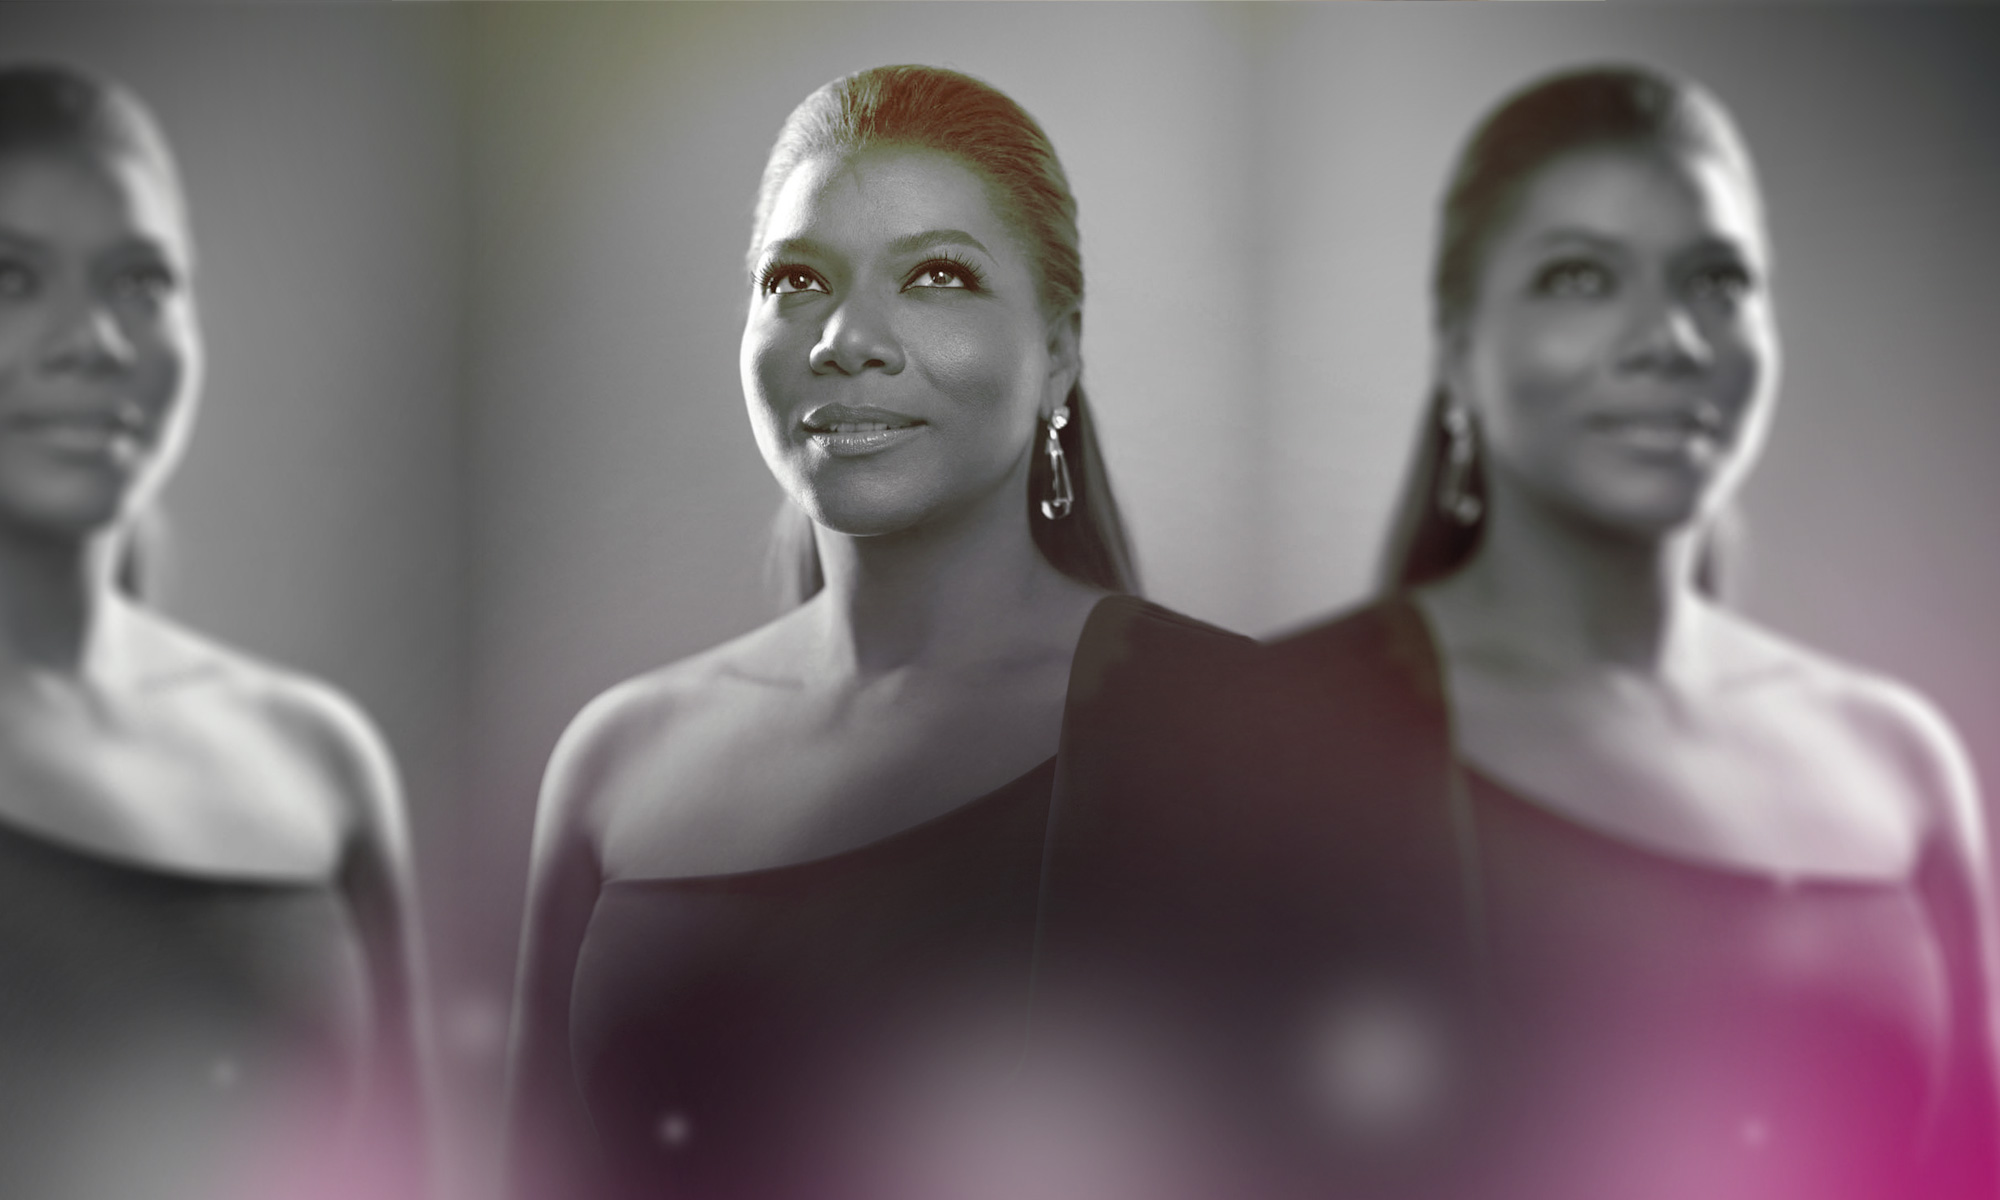
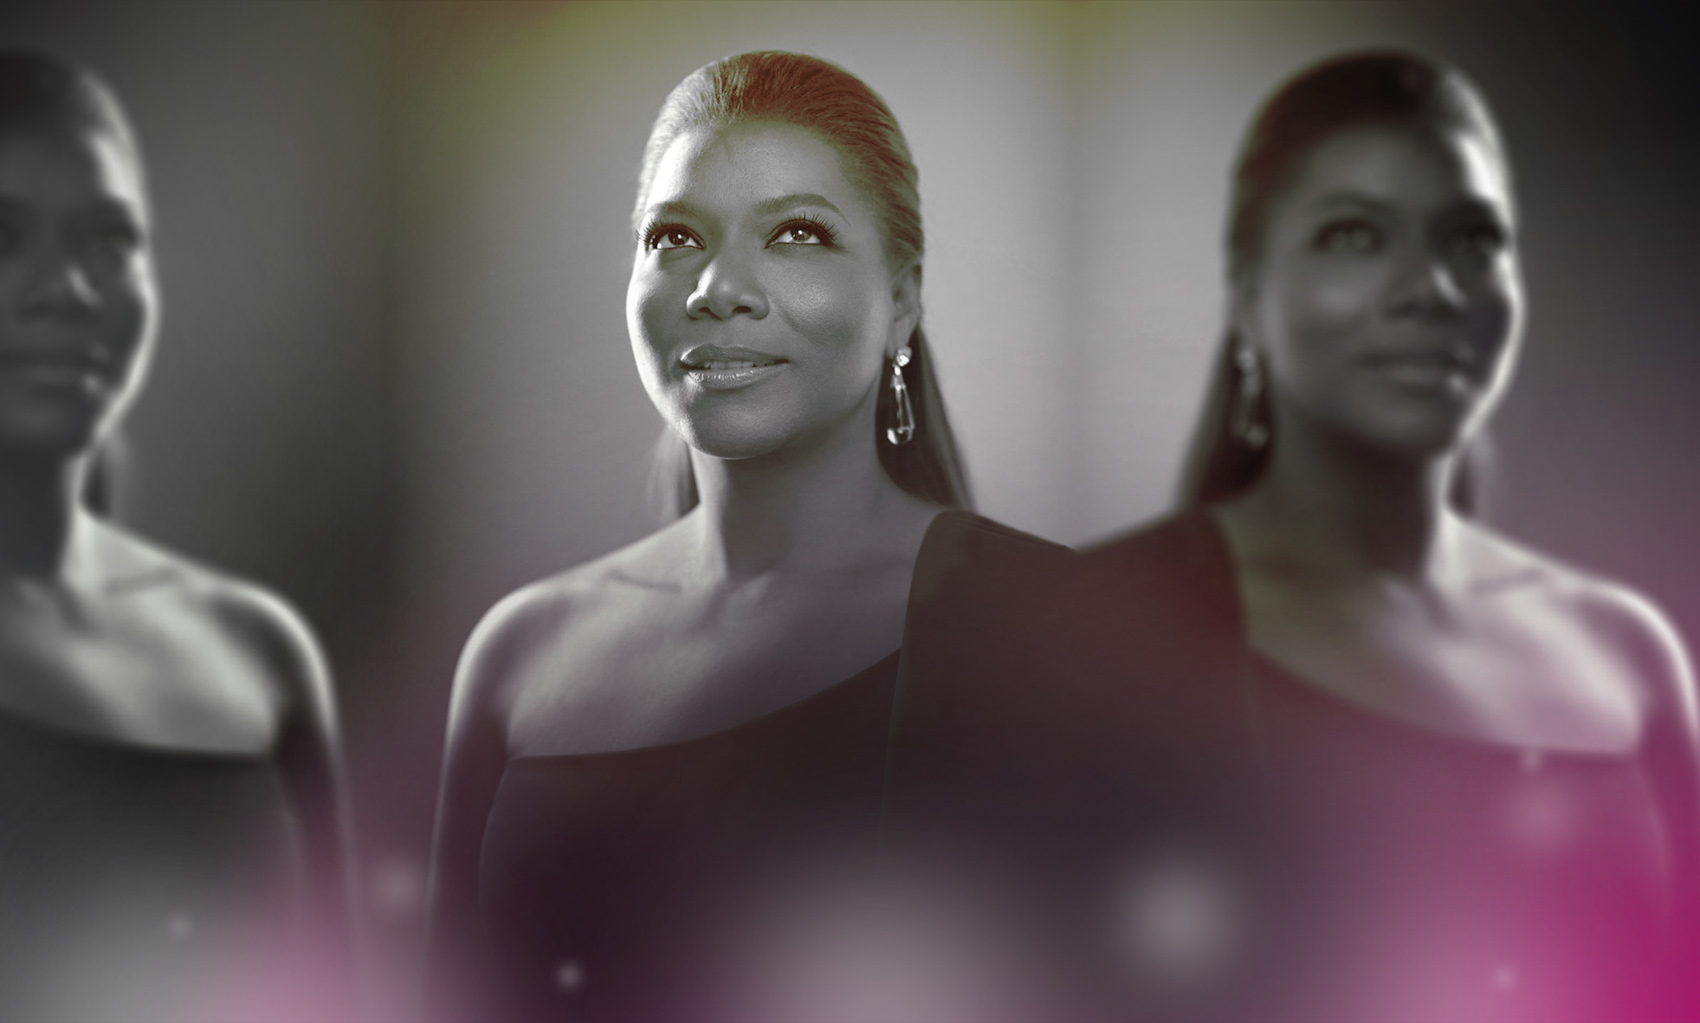
css & homepage carousel
minor fixes, asset replacement

diff --git a/static/css/base.css b/static/css/base.css
@@ -8,7 +8,6 @@ body {
     max-width: 1800px;
 }
 
-
 /* Typography
 -------------------------------------------------- */
 
@@ -38,7 +37,6 @@ a:hover {}
     margin: 0 auto;
     overflow: hidden;
     max-width: 1800px;
-
 }
 
 .left-dock {
@@ -216,7 +214,7 @@ a:hover {}
 .left-dock .dropdown-menu a.link {
     color: inherit;
 padding: 8px 0 6px 24px;
-
+font-weight: bold;
     min-height: 69px;
 }
 
@@ -416,6 +414,14 @@ padding: 8px 0 6px 24px;
 
 /* Layout - Home
 -------------------------------------------------- */
+
+body.home {
+    max-width: 100%;
+}body.home .wrapper {
+    max-width: 100%;
+}
+
+
 body.home #topadunit {
     position: fixed;
     display: block;
@@ -1020,8 +1026,9 @@ p.date:before, p.date:after {
 #position {
     position: absolute;
     z-index: 10;
-    left: 37%;
+    left: 50%;
     bottom: 290px;
+    margin-left: -233px; /* offset for 4 items*/
 }
 
 #position li {
@@ -1523,6 +1530,7 @@ ul.tweets {
     text-align: center;
     margin-bottom: 8px;
     font-family: "proxima-nova", 'Open Sans Bold', sans-serif;
+    font-weight: bold;
 } .twitter h3 a {
         font-family: "proxima-nova", 'Open Sans Bold', sans-serif;
     color: #3a3a3a;
@@ -1542,6 +1550,9 @@ ul.tweets {
     line-height: 21px;
     font-family: 'Glegoo', Arial;
     /*max-width: 1500px;*/
+    -webkit-box-shadow: 0px -1px 5px rgba(50, 50, 50, 0.4);
+-moz-box-shadow:    0px -1px 5px rgba(50, 50, 50, 0.4);
+box-shadow:         0px -1px 5px rgba(50, 50, 50, 0.4);
 	} #footer a {
     color: #727272;
 } #footer div.hr {

diff --git a/static/js/script.js b/static/js/script.js
@@ -147,6 +147,7 @@ function switchContent(href) {
             $('#a').addClass('dark').backstretch("/images/home/slide1.jpg"); //this image is dark, and needs a white logo
             $('#b').backstretch("/images/home/slide3.jpg");
             $('#c').backstretch("/images/home/slide2.jpg");
+            $('#d').backstretch("/images/home/slide4.jpg");
 
             // swipe.js (second)
             window.mySwipe = $('#mySwipe').Swipe({
